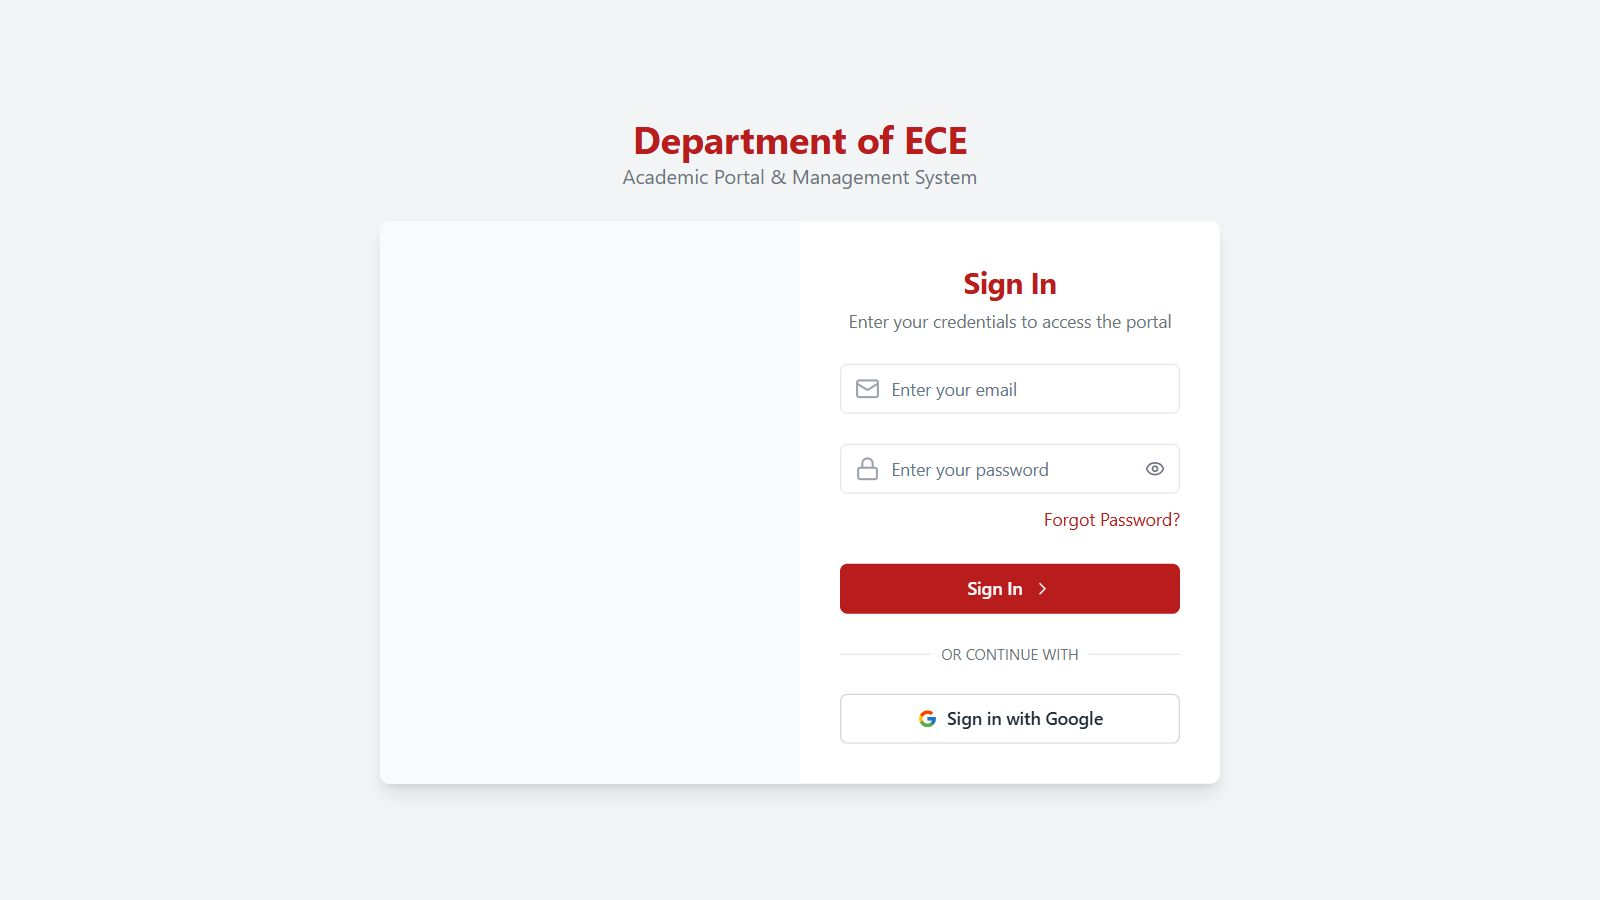
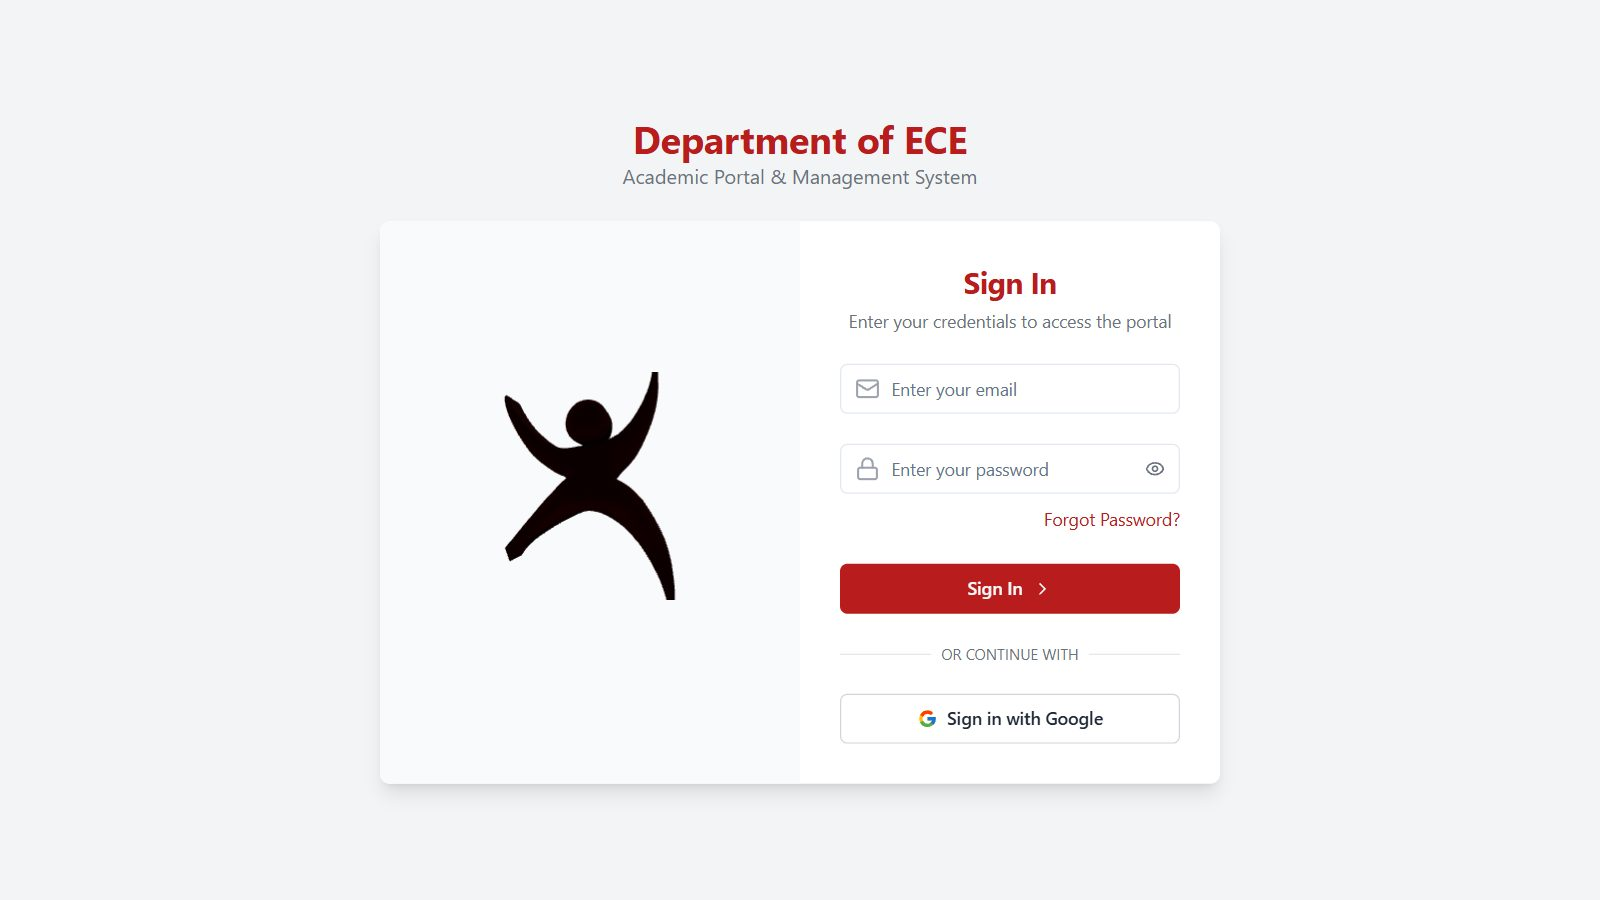
Refactor code structure for improved readability and maintainability

Changed region(s): [[0.3125, 0.4044, 0.4375, 0.6844]]

diff --git a/vijay-portfolio/src/components/Projects.tsx b/vijay-portfolio/src/components/Projects.tsx
@@ -1,3 +1,5 @@
+import { useState } from 'react'
+import { AnimatePresence, motion } from 'framer-motion'
 import { ExternalLink, Globe, Bot, Bluetooth, CircuitBoard, ScanEye, Cpu } from 'lucide-react'
 import { projects, type BoardKind, type Project } from '../data/profile'
 import { Section, Reveal } from './Section'
@@ -5,25 +7,43 @@ import { Section, Reveal } from './Section'
 const ICONS: Record<BoardKind, typeof Globe> = { web: Globe, arm: Bot, nrf: Bluetooth, mcu: CircuitBoard, vision: ScanEye, sbc: Cpu }
 const ACCENT: Record<BoardKind, string> = { web: '#3ee08f', arm: '#d9a64e', nrf: '#4da3ff', mcu: '#ff7a59', vision: '#c792ea', sbc: '#3ee08f' }
 
-/** Browser-frame preview for the live ECE portal. Put a real screenshot at public/projects/ece-portal.png */
-function PortalPreview() {
+/** Browser-frame screenshot gallery (images listed in profile.ts → project.gallery). */
+function Gallery({ shots }: { shots: NonNullable<Project['gallery']> }) {
+  const [i, setI] = useState(0)
+  const shot = shots[i]
   return (
-    <div className="overflow-hidden rounded-xl border border-line bg-[#0a1410]">
+    <div className="overflow-hidden rounded-xl border border-line bg-bg">
       <div className="flex items-center gap-2 border-b border-line px-3 py-2">
         <span className="h-2.5 w-2.5 rounded-full bg-[#ff5f57]" /><span className="h-2.5 w-2.5 rounded-full bg-[#febc2e]" /><span className="h-2.5 w-2.5 rounded-full bg-[#28c840]" />
-        <div className="ml-3 flex-1 truncate rounded-md bg-white/5 px-3 py-1 font-mono text-[11px] text-muted">https://ece.rguktrkv.ac.in</div>
+        <div className="ml-3 flex-1 truncate rounded-md bg-white/5 px-3 py-1 font-mono text-[11px] text-muted">{shot.url}</div>
       </div>
-      <div className="relative aspect-[16/9]">
-        <img src="/projects/ece-portal.png" alt="ECE portal screenshot" className="absolute inset-0 h-full w-full object-cover object-top" onError={(e) => ((e.currentTarget.style.display = 'none'))} />
-        {/* skeleton shown under the image (visible if screenshot missing) */}
-        <div className="grid h-full grid-cols-[1fr_2.2fr] gap-3 p-4">
-          <div className="space-y-2">{Array.from({ length: 6 }).map((_, i) => <div key={i} className={`h-3 rounded ${i === 1 ? 'bg-signal/40' : 'bg-white/8'}`} />)}</div>
-          <div className="space-y-3">
-            <div className="h-5 w-1/2 rounded bg-white/12" />
-            <div className="grid grid-cols-3 gap-2">{['Attendance', 'Schedule', 'Alerts'].map((t) => <div key={t} className="rounded-md border border-line bg-white/[0.03] p-2 font-mono text-[10px] text-muted">{t}<div className="mt-2 h-6 rounded bg-signal/15" /></div>)}</div>
-            <div className="h-16 rounded-md bg-white/[0.04]" />
-          </div>
-        </div>
+      <div className="relative aspect-[16/9] bg-surface">
+        <AnimatePresence initial={false}>
+          <motion.img
+            key={shot.src}
+            src={shot.src}
+            alt={`ECE portal — ${shot.label}`}
+            loading="lazy"
+            initial={{ opacity: 0 }}
+            animate={{ opacity: 1 }}
+            exit={{ opacity: 0 }}
+            transition={{ duration: 0.35 }}
+            className="absolute inset-0 h-full w-full object-cover object-top"
+          />
+        </AnimatePresence>
+      </div>
+      <div className="flex gap-1.5 overflow-x-auto border-t border-line p-2" role="tablist" aria-label="Portal screenshots">
+        {shots.map((s, k) => (
+          <button
+            key={s.src}
+            role="tab"
+            aria-selected={k === i}
+            onClick={() => setI(k)}
+            className={`shrink-0 rounded-md px-3 py-1.5 font-mono text-[11px] transition ${k === i ? 'bg-signal/15 text-signal' : 'text-muted hover:text-ink'}`}
+          >
+            {s.label}
+          </button>
+        ))}
       </div>
     </div>
   )
@@ -47,7 +67,7 @@ function Card({ p, big = false }: { p: Project; big?: boolean }) {
       <p className="font-mono text-xs uppercase tracking-wider" style={{ color: accent }}>{p.subtitle}</p>
       <h3 className={`mt-1.5 font-display font-semibold tracking-tight ${big ? 'text-2xl md:text-3xl' : 'text-xl'}`}>{p.title}</h3>
       <p className="mt-3 text-[15px] leading-relaxed text-muted">{p.description}</p>
-      {p.board === 'web' && big && <div className="mt-6"><PortalPreview /></div>}
+      {p.gallery && <div className="mt-6"><Gallery shots={p.gallery} /></div>}
       <ul className="mt-5 space-y-2">
         {p.highlights.map((h) => (
           <li key={h} className="flex gap-2.5 text-sm leading-relaxed text-soft"><span className="mt-[9px] h-1 w-1 shrink-0 rounded-full" style={{ background: accent }} />{h}</li>

diff --git a/vijay-portfolio/src/three/boards.tsx b/vijay-portfolio/src/three/boards.tsx
@@ -192,10 +192,10 @@ export function NRFBoard({ traces = true }: { traces?: boolean }) {
       {traces && <Traces paths={paths} color="#9fd4ff" lineColor="#7fa6e6" speed={0.55} />}
 
       {/* radio: SoC + flash + PCB antenna */}
-      <Layer lift={1.7} position={[2.7, 0, -0.25]} label="nRF5340 · dual Cortex-M33" labelSide="left">
+      <Layer lift={2.0} position={[2.7, 0, -0.25]} label="nRF5340 · dual Cortex-M33" labelSide="left">
         <Chip w={0.55} d={0.55} h={0.08} pins={8} />
       </Layer>
-      <Layer lift={1.1} position={[2.5, 0, 0.55]} label="QSPI flash" labelSide="left">
+      <Layer lift={1.1} position={[2.5, 0, 0.55]}>
         <Chip w={0.4} d={0.3} h={0.08} pins={4} pinSides={2} />
       </Layer>
       <Layer lift={0.9} position={[3.85, 0, -0.25]} label="2.4 GHz PCB antenna">
@@ -213,17 +213,17 @@ export function NRFBoard({ traces = true }: { traces?: boolean }) {
       </Layer>
 
       {/* Arduino-style headers */}
-      <Layer lift={0.55} position={[-2.35, 0, -1.72]} label="Arduino headers">
+      <Layer lift={0.55} position={[-2.35, 0, -1.72]} label="Arduino headers" labelSide="left">
         <Header cols={8} rows={1} pitch={0.2} female />
       </Layer>
       <Layer lift={0.55} position={[-0.85, 0, -1.72]}><Header cols={6} rows={1} pitch={0.2} female /></Layer>
       <Layer lift={0.55} position={[0.5, 0, -1.72]}><Header cols={6} rows={1} pitch={0.2} female /></Layer>
       <Layer lift={0.55} position={[-2.0, 0, 1.6]}><Header cols={6} rows={1} pitch={0.2} female /></Layer>
       <Layer lift={0.55} position={[-0.75, 0, 1.6]}><Header cols={5} rows={1} pitch={0.2} female /></Layer>
-      <Layer lift={0.45} position={[-1.95, 0, -1.0]} label="P1 GPIO">
+      <Layer lift={0.45} position={[-1.95, 0, -1.0]}>
         <Header cols={12} rows={2} pitch={0.2} pinH={0.4} />
       </Layer>
-      <Layer lift={0.45} position={[1.55, 0, -0.4]} label="P0 GPIO" labelSide="left">
+      <Layer lift={0.45} position={[1.55, 0, -0.4]}>
         <group rotation={[0, Math.PI / 2, 0]}><Header cols={10} rows={2} pitch={0.2} pinH={0.4} /></group>
       </Layer>
       {[-1.25, -0.95, -0.65].map((z) => (
@@ -234,7 +234,7 @@ export function NRFBoard({ traces = true }: { traces?: boolean }) {
       <Layer lift={0.7} position={[2.3, 0, -1.7]} label="nRF USB">
         <SmallPort w={0.55} h={0.22} d={0.45} />
       </Layer>
-      <Layer lift={0.7} position={[-3.95, 0, 0]} label="USB (debug)">
+      <Layer lift={0.7} position={[-3.95, 0, 0]}>
         <SmallPort w={0.45} h={0.22} d={0.55} />
       </Layer>
       <group position={[-3.9, 0, 1.55]}><SlideSwitch /></group>

diff --git a/vijay-portfolio/src/data/profile.ts b/vijay-portfolio/src/data/profile.ts
@@ -87,6 +87,8 @@ export type Project = {
   board: BoardKind // which 3D board / icon represents it
   featured?: boolean
   links?: { label: string; href: string }[]
+  /** Screenshots shown in a browser frame (files in public/projects/). */
+  gallery?: { src: string; label: string; url: string }[]
 }
 
 export type BoardKind = 'sbc' | 'mcu' | 'nrf' | 'arm' | 'web' | 'vision'
@@ -107,6 +109,12 @@ export const projects: Project[] = [
     board: 'web',
     featured: true,
     links: [{ label: 'Live site', href: 'https://ece.rguktrkv.ac.in' }],
+    gallery: [
+      { src: '/projects/ece-home-dark.jpg', label: 'Home · dark', url: 'https://ece.rguktrkv.ac.in' },
+      { src: '/projects/ece-home.jpg', label: 'Home · light', url: 'https://ece.rguktrkv.ac.in' },
+      { src: '/projects/ece-login.jpg', label: 'Sign in', url: 'https://ece.rguktrkv.ac.in/login' },
+      { src: '/projects/ece-academic.jpg', label: 'Academic portal', url: 'https://ece.rguktrkv.ac.in/academic-portal' },
+    ],
   },
   {
     title: 'Collaborative Robotic Arm System',
@@ -147,8 +155,8 @@ export const projects: Project[] = [
       'Encoder feedback with Ziegler–Nichols-tuned PID',
       'Live desktop UI for RPM, set-points and PID gains — no code changes needed',
     ],
-    tags: ['PID', 'Stepper Motors', 'Python', 'Real-Time'],
-    board: 'mcu',
+    tags: ['Raspberry Pi', 'PID', 'Stepper Motors', 'Python', 'Real-Time'],
+    board: 'sbc',
   },
   {
     title: 'Object Localization with ZED 2i',

diff --git a/vijay-portfolio/src/components/Avatar.tsx b/vijay-portfolio/src/components/Avatar.tsx
@@ -1,8 +1,11 @@
 import { useState } from 'react'
 import { profile } from '../data/profile'
 
-/** Profile photo with an initials fallback until public/profile.jpg exists. */
-export default function Avatar({ className = '' }: { className?: string }) {
+/**
+ * Profile photo with an initials fallback until public/profile.jpg exists.
+ * `face` zooms in on the head — for small circular badges where a full portrait would be tiny.
+ */
+export default function Avatar({ className = '', face = false }: { className?: string; face?: boolean }) {
   const [failed, setFailed] = useState(false)
   if (failed)
     return (
@@ -10,5 +13,13 @@ export default function Avatar({ className = '' }: { className?: string }) {
         <span className="text-[34cqw] leading-none tracking-tight">VK</span>
       </div>
     )
-  return <img src={profile.photo} alt={profile.name} onError={() => setFailed(true)} className={`object-cover ${className}`} />
+  const img = (
+    <img
+      src={profile.photo}
+      alt={profile.name}
+      onError={() => setFailed(true)}
+      className={face ? 'h-full w-full origin-[50%_28%] scale-[1.9] object-cover' : `object-cover ${className}`}
+    />
+  )
+  return face ? <div className={`overflow-hidden bg-white ${className}`}>{img}</div> : img
 }

diff --git a/vijay-portfolio/src/components/Hero.tsx b/vijay-portfolio/src/components/Hero.tsx
@@ -63,11 +63,11 @@ export default function Hero() {
       <div className="pointer-events-none absolute inset-0 bg-gradient-to-r from-bg via-bg/70 to-transparent lg:via-bg/30" />
       <div className="pointer-events-none absolute inset-x-0 bottom-0 h-40 bg-gradient-to-t from-bg to-transparent" />
 
-      <div className="relative mx-auto w-full max-w-6xl px-4 pt-24 sm:px-6">
+      <div className="relative mx-auto w-full max-w-[1440px] px-4 pt-24 sm:px-6 lg:px-12">
         <div className="max-w-xl">
           {current && (
             <motion.div {...fade(0.1)} className="mb-7 inline-flex items-center gap-3 rounded-full border border-line bg-surface/70 py-1.5 pl-1.5 pr-4 backdrop-blur">
-              <Avatar className="h-8 w-8 rounded-full ring-1 ring-signal/50" />
+              <Avatar face className="h-8 w-8 shrink-0 rounded-full ring-1 ring-signal/50" />
               <span className="text-xs text-muted sm:text-sm">
                 <span className="pulse-dot mr-2 inline-block h-1.5 w-1.5 rounded-full bg-signal align-middle text-signal" />
                 {current.role} @ <span className="text-ink">{current.org}</span>

diff --git a/vijay-portfolio/src/three/labBoards.ts b/vijay-portfolio/src/three/labBoards.ts
@@ -24,15 +24,15 @@ export const LAB_BOARDS: LabBoard[] = [
     specs: ['1 kHz sampling', 'Custom BLE GATT service', 'Low-latency streaming firmware', 'Board bring-up & debug'],
     usedIn: ['Wireless Vibration Monitoring', 'IIT Tirupati internship'],
     accent: '#4da3ff',
-    scale: 0.72,
+    scale: 0.88,
   },
   {
     id: 'sbc',
     name: 'ARM64 Single-Board Computer',
     kicker: 'Linux · Edge compute',
-    blurb: 'Pi-class SBC that hosts ROS2 nodes, vision pipelines and the heterogeneous AI runtime.',
-    specs: ['ARM64 Linux', 'ROS2 / OpenCV workloads', 'PCIe to NPU accelerator', '40-pin GPIO'],
-    usedIn: ['Collaborative Robotic Arm', 'Object Localization', 'Heterogeneous AI deployment'],
+    blurb: 'Pi-class SBC that runs the control software for the ISRO Random Position Machine — closed-loop stepper control with encoder feedback and a live desktop UI.',
+    specs: ['ARM64 Linux', 'PID motor control with encoder feedback', 'TCP/IP link to the embedded hardware', '40-pin GPIO'],
+    usedIn: ['ISRO RPM Control System', 'IIT Tirupati internship'],
     accent: '#3ee08f',
     scale: 0.68,
   },

diff --git a/vijay-portfolio/src/components/Section.tsx b/vijay-portfolio/src/components/Section.tsx
@@ -5,13 +5,13 @@ export function Section({ id, kicker, title, intro, children, className = '' }: 
   id: string; kicker: string; title: string; intro?: string; children: ReactNode; className?: string
 }) {
   return (
-    <section id={id} className={`relative mx-auto max-w-6xl px-4 py-24 sm:px-6 md:py-32 ${className}`}>
+    <section id={id} className={`relative mx-auto max-w-[1440px] px-4 py-16 sm:px-6 md:py-24 lg:px-12 ${className}`}>
       <motion.header
         initial={{ opacity: 0, y: 24 }}
         whileInView={{ opacity: 1, y: 0 }}
         viewport={{ once: true, margin: '-80px' }}
         transition={{ duration: 0.6, ease: [0.22, 1, 0.36, 1] }}
-        className="mb-12 max-w-2xl"
+        className="mb-10 max-w-3xl"
       >
         <p className="kicker mb-3">{kicker}</p>
         <h2 className="font-display text-3xl font-semibold tracking-tight sm:text-4xl md:text-5xl">{title}</h2>

diff --git a/vijay-portfolio/src/components/Navbar.tsx b/vijay-portfolio/src/components/Navbar.tsx
@@ -24,7 +24,7 @@ export default function Navbar() {
 
   return (
     <header className={`fixed inset-x-0 top-0 z-50 transition-all duration-300 ${scrolled ? 'border-b border-line bg-bg/75 backdrop-blur-xl' : ''}`}>
-      <nav className="mx-auto flex h-16 max-w-6xl items-center justify-between px-4 sm:px-6">
+      <nav className="mx-auto flex h-16 max-w-[1440px] items-center justify-between px-4 sm:px-6 lg:px-12">
         <a href="#top" className="group flex items-center gap-2.5" aria-label="Home">
           <span className="relative grid h-9 w-9 place-items-center rounded-lg border border-copper/60 bg-surface font-mono text-xs font-semibold text-signal">
             VK

diff --git a/vijay-portfolio/src/components/Contact.tsx b/vijay-portfolio/src/components/Contact.tsx
@@ -39,7 +39,7 @@ export default function Contact() {
         </Reveal>
       </Section>
       <footer className="border-t border-line">
-        <div className="mx-auto flex max-w-6xl flex-col items-center justify-between gap-2 px-4 py-8 text-xs text-muted sm:flex-row sm:px-6">
+        <div className="mx-auto flex max-w-[1440px] flex-col items-center justify-between gap-2 px-4 py-8 text-xs text-muted sm:flex-row sm:px-6 lg:px-12">
           <span>© {new Date().getFullYear()} {profile.name}</span>
           <span className="font-mono">built with React · Three.js · R3F</span>
         </div>

diff --git a/vijay-portfolio/src/index.css b/vijay-portfolio/src/index.css
@@ -28,14 +28,6 @@ body {
 }
 ::selection { background: rgba(62, 224, 143, 0.3); }
 
-/* PCB-grid backdrop */
-.pcb-bg {
-  background-image:
-    radial-gradient(circle at 1px 1px, rgba(160, 220, 190, 0.09) 1px, transparent 0),
-    linear-gradient(to right, rgba(160, 220, 190, 0.035) 1px, transparent 1px),
-    linear-gradient(to bottom, rgba(160, 220, 190, 0.035) 1px, transparent 1px);
-  background-size: 24px 24px, 96px 96px, 96px 96px;
-}
 .glow-top {
   background:
     radial-gradient(60% 50% at 70% 20%, rgba(62, 224, 143, 0.13), transparent 70%),

diff --git a/vijay-portfolio/src/three/Scenes.tsx b/vijay-portfolio/src/three/Scenes.tsx
@@ -75,7 +75,7 @@ export function HeroScene({ active = true }: { active?: boolean }) {
           </Float>
           <DockingNPU />
           <Float speed={1.6} rotationIntensity={0.4} floatIntensity={0.8}>
-            <group position={[3.6, 1.6, -4.4]} rotation={[0.3, -0.6, 0.15]} scale={0.7}>
+            <group position={[3.6, 1.6, -4.4]} rotation={[0.3, -0.6, 0.15]} scale={0.55}>
               <NRFBoard />
             </group>
           </Float>

diff --git a/vijay-portfolio/src/App.tsx b/vijay-portfolio/src/App.tsx
@@ -10,7 +10,7 @@ import Contact from './components/Contact'
 
 export default function App() {
   return (
-    <div className="relative min-h-screen pcb-bg">
+    <div className="relative min-h-screen">
       <Navbar />
       <main>
         <Hero />
